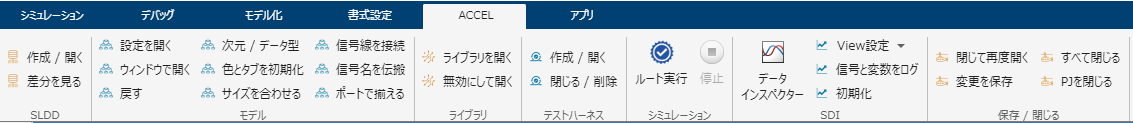
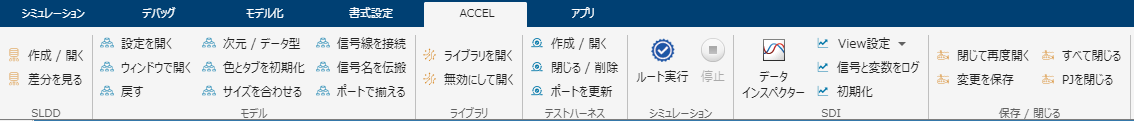
add updating test harness function.

diff --git a/tshintai_simulinkcustomtab/auto_connect_ports_in_test_harness_tshintaiCustomTab.m b/tshintai_simulinkcustomtab/auto_connect_ports_in_test_harness_tshintaiCustomTab.m
@@ -1,0 +1,95 @@
+function auto_connect_ports_in_test_harness_tshintaiCustomTab()
+%% 説明
+% テストハーネスでテストを行う対象のサブシステムの
+% ポートの数が変化した時、「Signal spec. and routing」ブロックも
+% 合わせて修正したい。この時、このスクリプトを実行することで
+% 「Signal spec. and routing」を更新することができる。
+%%
+this_harness_name = bdroot;
+if strcmp(get_param(this_harness_name, 'IsHarness'), 'off')
+    return;
+end
+
+%%
+try
+    save_system(this_harness_name);
+catch
+    error('モデルが保存できませんので、保存できるようにしてください。');
+end
+close_system(this_harness_name);
+
+harness_list = sltest.harness.find(bdroot);
+if isempty(harness_list)
+    return;
+end
+
+for i = 1:numel(harness_list)
+    if strcmp(harness_list(i).name, this_harness_name)
+        harness_owner_name = harness_list(i).ownerFullPath;
+    end
+end
+
+harness_name_temp = [this_harness_name, '____temporary____'];
+sltest.harness.create(harness_owner_name, 'Name', harness_name_temp, ...
+    'CreateWithoutCompile', true);
+sltest.harness.load(harness_owner_name, harness_name_temp);
+
+%%
+Signal_spec_outside_name = ...
+    ['Output', newline, 'Conversion', newline 'Subsystem'];
+Signal_spec_inside_name = ...
+    ['Input', newline, 'Conversion', newline 'Subsystem'];
+
+temp_model_handle = new_system;
+load_system(temp_model_handle);
+temp_model_name = get_param(0, 'CurrentSystem');
+
+Signal_spec_inside_harness_temp_path = ...
+    [harness_name_temp, '/', Signal_spec_inside_name];
+Signal_spec_outside_harness_temp_path = ...
+    [harness_name_temp, '/', Signal_spec_outside_name];
+Signal_spec_inside_model_temp_path = ...
+    [temp_model_name, '/', Signal_spec_inside_name];
+Signal_spec_outside_model_temp_path = ...
+    [temp_model_name, '/', Signal_spec_outside_name];
+Signal_spec_inside_harness_path = ...
+    [this_harness_name, '/', Signal_spec_inside_name];
+Signal_spec_outside_harness_path = ...
+    [this_harness_name, '/', Signal_spec_outside_name];
+
+add_block(Signal_spec_inside_harness_temp_path, ...
+    Signal_spec_inside_model_temp_path);
+add_block(Signal_spec_outside_harness_temp_path, ...
+    Signal_spec_outside_model_temp_path);
+
+sltest.harness.close(harness_owner_name, harness_name_temp);
+sltest.harness.delete(harness_owner_name, harness_name_temp);
+
+%%
+sltest.harness.open(harness_owner_name, this_harness_name);
+
+Signal_spec_inside_position = get_param(...
+    Signal_spec_inside_harness_path, ...
+    'Position');
+Signal_spec_outside_position = get_param(...
+    Signal_spec_outside_harness_path, ...
+    'Position');
+
+delete_block(Signal_spec_inside_harness_path);
+delete_block(Signal_spec_outside_harness_path);
+
+add_block(Signal_spec_inside_model_temp_path, ...
+    Signal_spec_inside_harness_path);
+add_block(Signal_spec_outside_model_temp_path, ...
+    Signal_spec_outside_harness_path);
+
+set_param(Signal_spec_inside_harness_path, ...
+    'Position', Signal_spec_inside_position);
+set_param(Signal_spec_outside_harness_path, ...
+    'Position', Signal_spec_outside_position);
+
+%%
+close_system(temp_model_handle, 0);
+save_system(harness_owner_name);
+
+end

diff --git a/ReadMe.md b/ReadMe.md
@@ -102,12 +102,12 @@ edit diff_with_latest_commit_sldd_tshintaiCustomTab
 ### 2.1.「設定を開く」ボタン
 
 
-モデルの今開いている階層のコンフィギュレーションパラメーターを開きます。例えば、上位階層のモデルから参照モデルを開いている時、その参照先のモデルのコンフィギュレーションパラメーターを開きます。
+モデルの今開いている階層のコンフィギュレーションパラメーターを開く。例えば、上位階層のモデルから参照モデルを開いている時、その参照先のモデルのコンフィギュレーションパラメーターを開く。
 
 
 
 
-また、そのモデルがコンフィギュレーション参照を行っている場合は、参照先のコンフィギュレーションパラメーターを開きます。
+また、そのモデルがコンフィギュレーション参照を行っている場合は、参照先のコンフィギュレーションパラメーターを開く。
 
 
 
@@ -297,6 +297,22 @@ edit create_open_test_harness_tshintaiCustomTab
 
 ```matlab:Code
 edit close_delete_test_harness_tshintaiCustomTab
+```
+
+### 4.3.「ポートを更新」ボタン
+
+
+テストハーネスでテストを行う対象のサブシステムのポートの数が変化した時、「Signal spec. and routing」ブロックも合わせて修正したい。
+
+
+
+
+この時、このスクリプトを実行することで「Signal spec. and routing」を更新することができる。
+
+
+
+```matlab:Code
+edit auto_connect_ports_in_test_harness_tshintaiCustomTab
 ```
 
 ## 5.シミュレーション セクション
